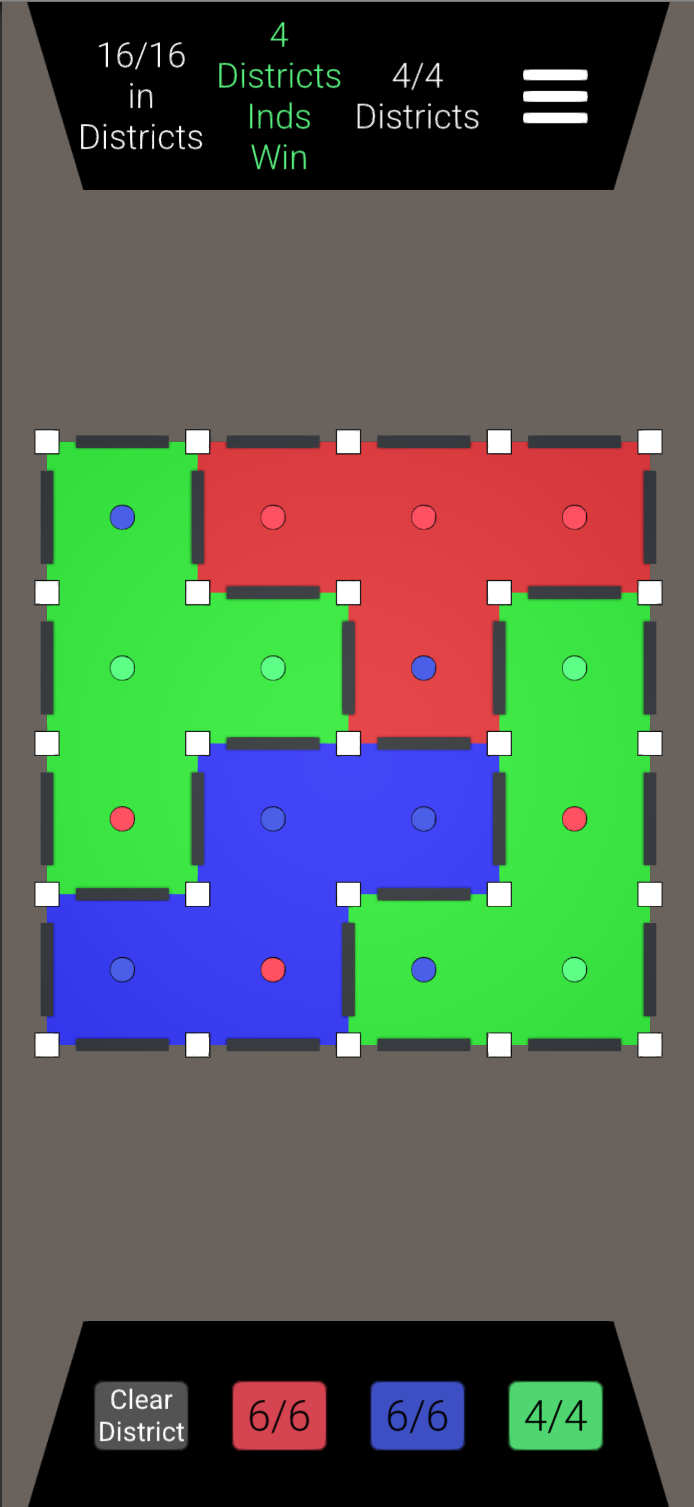
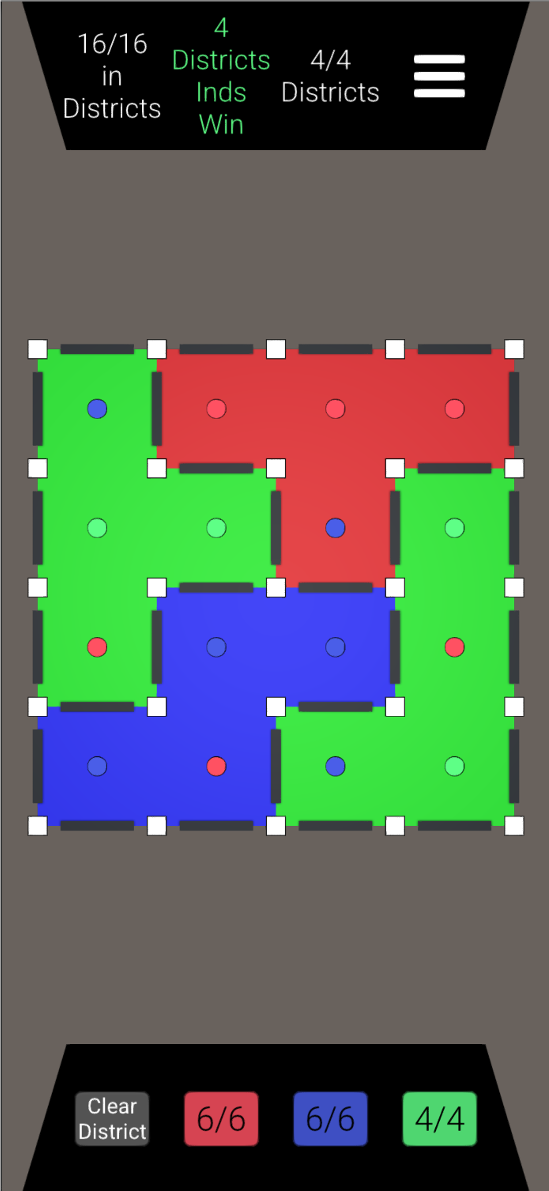
Updates to fix formatting

diff --git a/index.html b/index.html
@@ -139,21 +139,16 @@
 
 
 
-        <ul>
-            <li class="projLink" style="list-style-type:none"><a href="http://devpost.com/software/lively" class="list"> Project Link </a>
-            </li>
-        </ul>
-    </div>
 
     <div class="col span_1_of_3 proj">
         <h3 class="projName">A Dance of Flowers</h3>
 
         <img src="media/flowerGame.png" class="thumb" title="Trick or Treat Kitty" alt="Promo Picture from the Game" width="500" height="369s" />
-        <p>A relaxing game made with a group of students in Unity to demonstrate our proficiency in design and the development process.
+        <p>A relaxing game made with a group of students in Unity to demonstrate our proficiency in design and the development process. I was responsible for the controls, and tuned the gameplay of the game.
         </p>
         <ul>
 
-            <li class="projLink"><a href="http://www.thunderforge.co/" class="list"> Project Link</a>
+            <li class="projLink"><a href="https://github.com/SMaraia/A-Game-of-Flowers" class="list"> Project Link</a>
             </li>
 
         </ul>

diff --git a/gerrymandering.html b/gerrymandering.html
@@ -50,7 +50,7 @@
 
     <div class="groupTwo">
         <div class="col span_2_of_3">
-            <img src="media/GerrymanderingBig.png" class="majorImg" title="Gerrymandering Level" alt="This is a screenshot of a solved level in the game" width="694" height="1507" />
+            <img src="media/GerrymanderingBig.png" class="majorImg" title="Gerrymandering Level" alt="This is a screenshot of a solved level in the game" width="347" height="754" />
         </div>
 
 
